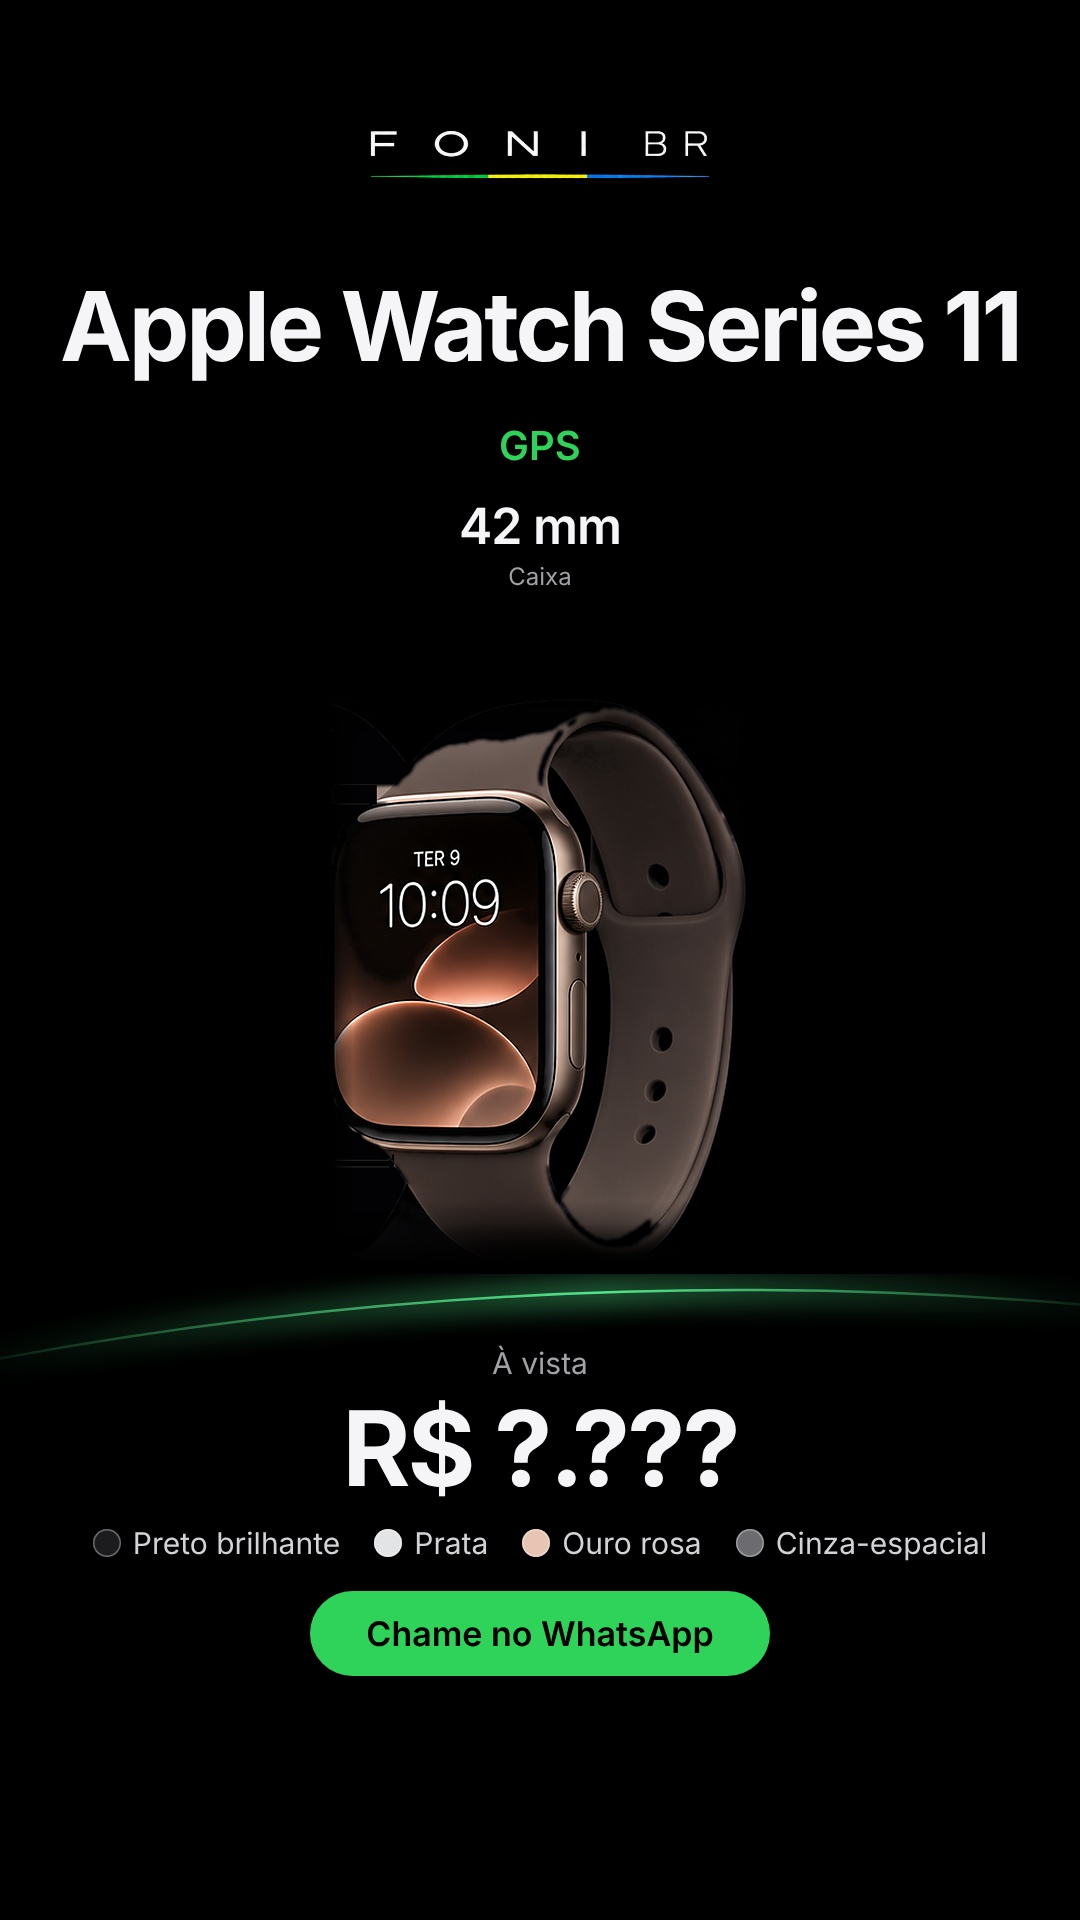
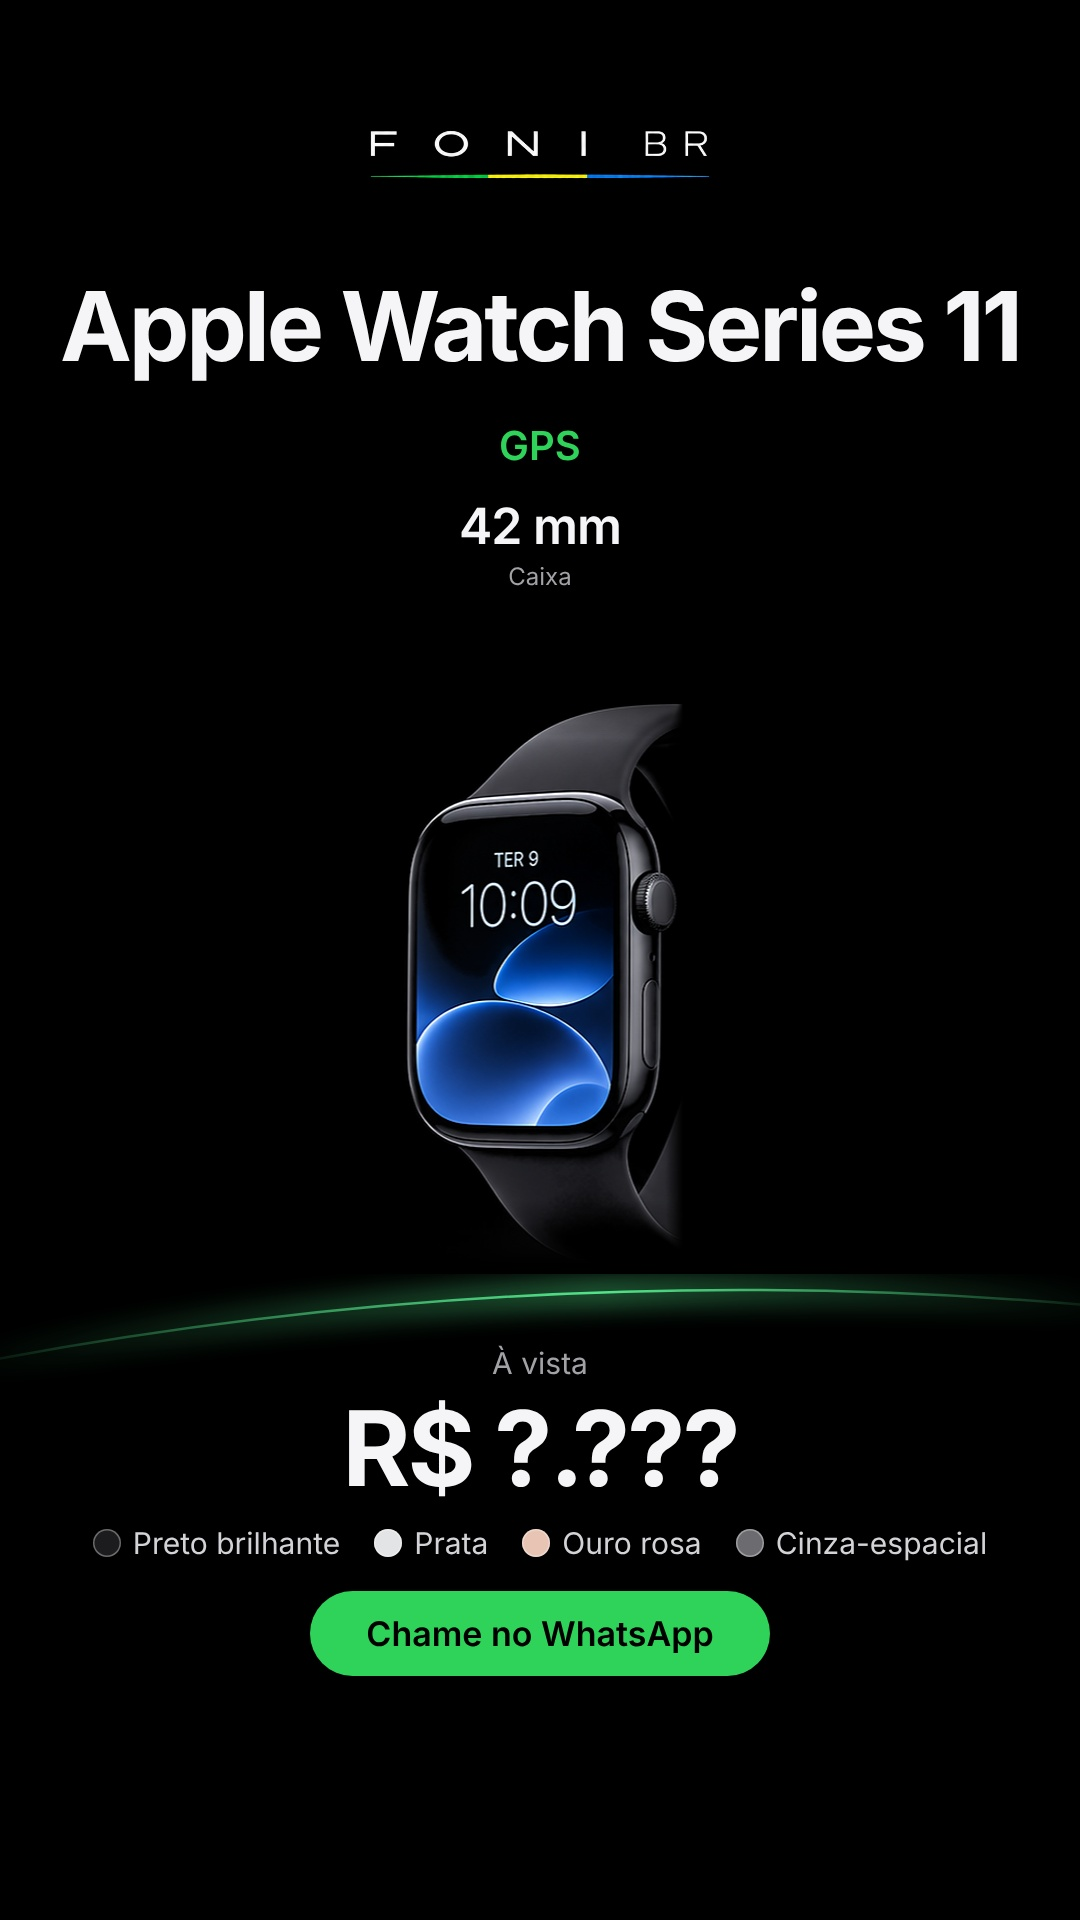
Apple Watch S11: cor diferente em cada caixa (42 mm preto, 46 mm cinza-espacial)
Claude-Session: https://claude.ai/code/session_019vjRdqEKRKmJkiD9USJGwJ

Changed region(s): [[0.3056, 0.3438, 0.7028, 0.6562]]

diff --git a/ferramentas/anuncio_produto/fichas.py b/ferramentas/anuncio_produto/fichas.py
@@ -61,7 +61,7 @@ FICHAS = {
                         foto="apple-watch-ultra-4/watchultra4_natural.png"),
     "watchs11_42": dict(modelo="Apple Watch Series 11", cond="GPS", specs="42 mm:Caixa", preco=PENDENTE,
                         cores="Preto brilhante:#1c1c1e, Prata, Ouro rosa:#e8c4b4 ou Cinza-espacial:#6b6b70", garantia="", tamanho="pequeno",
-                        esfumar=True, foto="apple-watch-s11/watchs11_cinza.png"),
+                        esfumar=True, foto="apple-watch-s11/watchs11_preto.png"),
     "watchs11_46": dict(modelo="Apple Watch Series 11", cond="GPS", specs="46 mm:Caixa", preco=PENDENTE,
                         cores="Preto brilhante:#1c1c1e, Prata, Ouro rosa:#e8c4b4 ou Cinza-espacial:#6b6b70", garantia="", tamanho="pro",
                         esfumar=True, foto="apple-watch-s11/watchs11_cinza.png"),

diff --git a/produtos/apple-watch-s11/LEIA.md b/produtos/apple-watch-s11/LEIA.md
@@ -1,1 +1,1 @@
-Apple Watch Series 11, 46 mm, GPS. Anuncio: um relogio so (watchs11_cinza.png, o da ponta direita, com a pulseira bege do vizinho apagada) --tamanho pro --esfumar; cores como opcoes embaixo.
+Apple Watch Series 11, GPS, caixas 42 mm e 46 mm. Anuncio: 42 mm com watchs11_preto.png e 46 mm com watchs11_cinza.png (cor diferente em cada versao), --esfumar; cores como opcoes embaixo.
